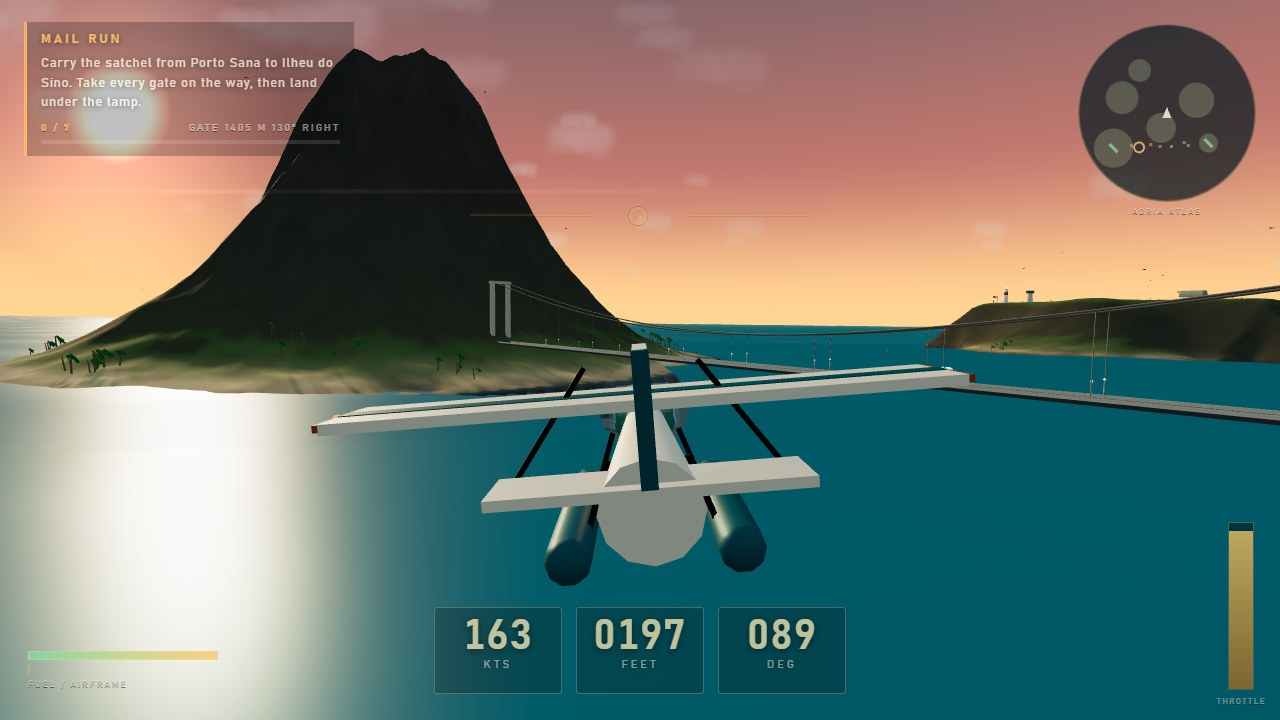
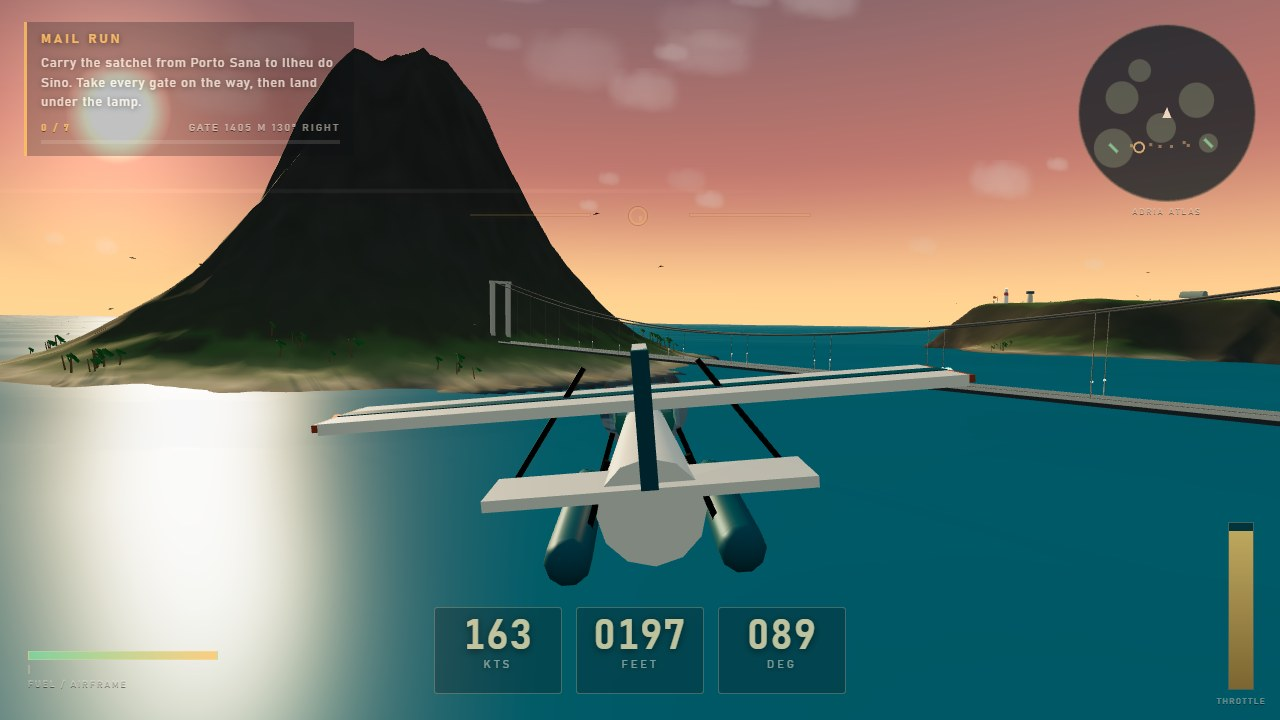
Pull the cover back so the whole airframe and the sea lane read

diff --git a/game/src/shots.js b/game/src/shots.js
@@ -45,8 +45,8 @@ export const SHOTS = {
     const look = gate.position.clone().add(new THREE.Vector3(0, 34, 0)).addScaledVector(side, -96);
     // Hard banked on the turn, not level: the horizon goes diagonal and the airframe does
     // something, which is what the rival frames that beat this one all had.
-    const pose = aim(from, look, { roll: -0.42, pitch: 0.02 });
-    return { ...pose, speed: 88, throttle: 1, camera: 'chase', kind: 'courier', gate, zoom: 1.95, vapour: 1, rim: true };
+    const pose = aim(from, look, { roll: -0.3, pitch: 0.02 });
+    return { ...pose, speed: 88, throttle: 1, camera: 'chase', kind: 'courier', gate, zoom: 1.45, vapour: 1, rim: true };
   },
 
   // Final approach: the lamp, the numbers and the strip filling the windscreen.
